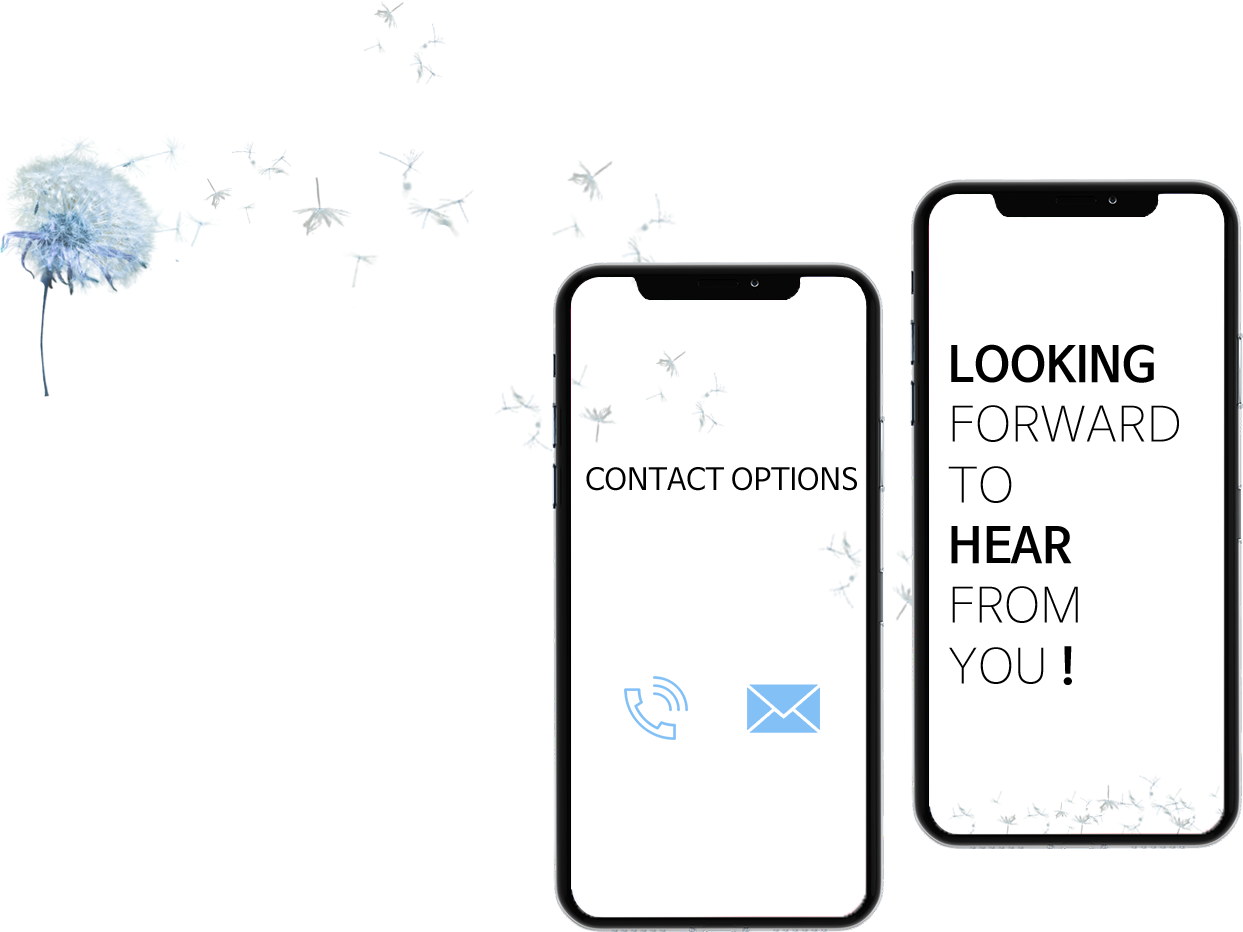
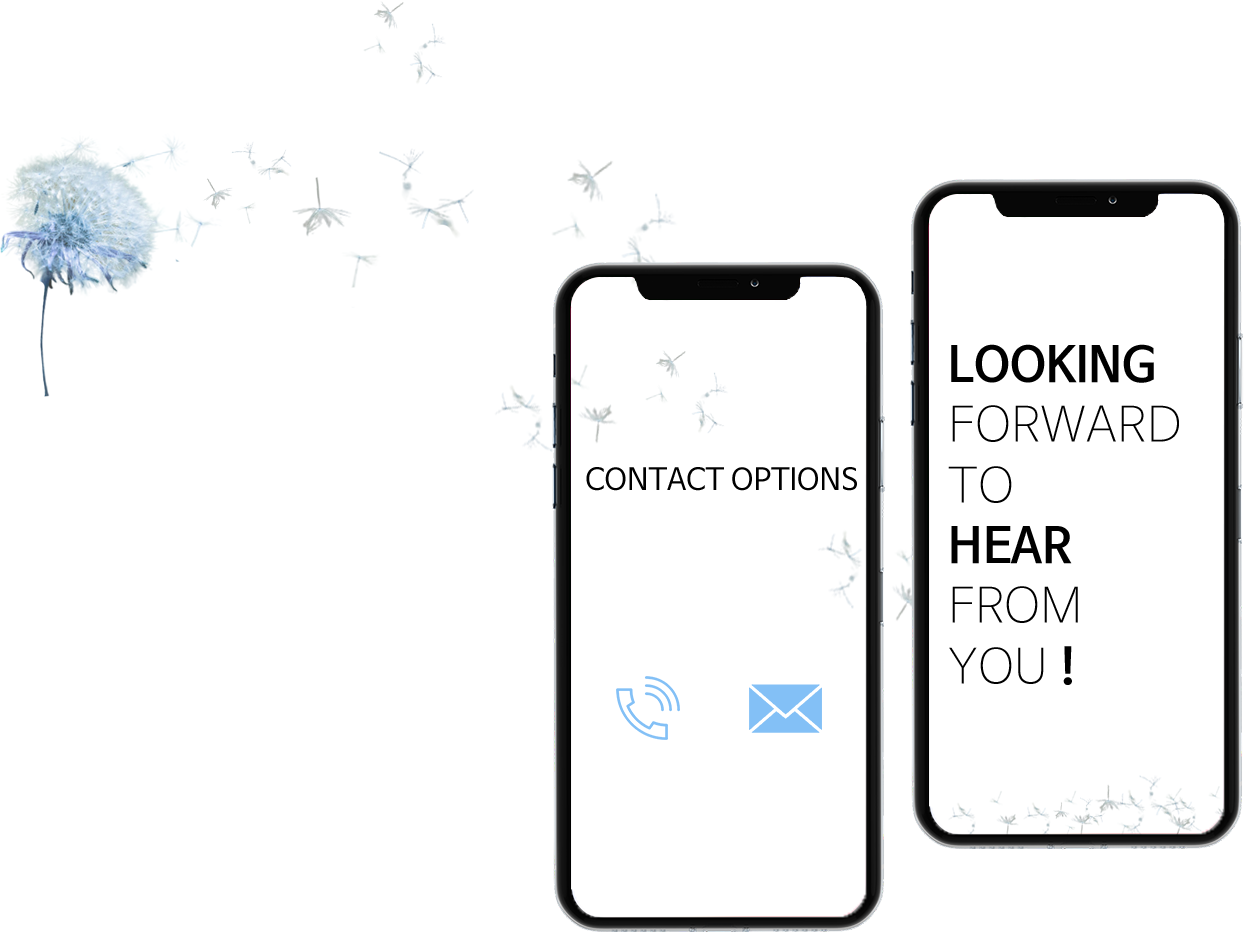
Add files via upload

diff --git a/index.html b/index.html
@@ -573,29 +573,33 @@
             
             <!--메인컨텐츠10-->
             <div class="mainCon10">
+               <div class="inner">
+                   
                 <div class="con10ImgWrap">
                     <h2>
                         MAKE<br>
                         IT<br>
                         HAPPEN
                     </h2>
-                    <img src="images/con10Bg.png" alt="컨텐츠배경이미지">
+                    <img src="images/con10Img_2.png" alt="컨텐츠배경이미지">
                 </div>
                     
+                <!--
                 <ul class="con10IconWrap">
                     <li>
                         <p class="con10Txt01">010.9206.1613</p>
                         <a href="#">
-                            <img src="images/con10Icon01.png" alt="컨텐츠배경이미지">
+                            <img src="images/plusWBtn.png">
                         </a>
                     </li>
                     <li>
                         <p class="con10Txt02">u14119294@gmail.com</p>
                         <a href="https://accounts.google.com/"  target="_blank">
-                            <img src="images/con10Icon02.png" alt="컨텐츠배경이미지">
+                            <img src="images/plusWBtn.png">
                         </a>
                     </li>
                 </ul>
+                -->
 
                 <!--contact-->
                 <div class="gnb cf">
@@ -603,6 +607,7 @@
                     <img src="images/plusBtn.png" alt="플러스버튼">
                 </div>
                 <!--contact-->
+                </div>
             </div>
             <!--메인컨텐츠10-->
 

diff --git a/css/main.css b/css/main.css
@@ -108,7 +108,7 @@
     position:relative;
 }
 .mainCon01 li a{
-    margin:400px 0;
+    padding:400px 0;
     display:block;
 }
 .mainCon01 li a::after{
@@ -282,7 +282,7 @@
 .con02RightWrap{
     position:absolute;
     right:0;
-    margin-right:10%;
+    margin-right:18%;
     bottom:0;
     font-size:23px;
 }
@@ -604,15 +604,17 @@
 .con10ImgWrap{
     position:relative;
 }
-.mainCon10 img{}
+
 
 .con10IconWrap{
     position:absolute;
     bottom:0;
-    margin-bottom:260px;
-    left:40%;
-    margin-left:-10px;
+    margin-bottom:290px;
+    right:0;
+    margin-right:740px;
 }
+
+
 .con10IconWrap li{
     float:left;
     margin-right:80px;
@@ -620,6 +622,10 @@
 .con10IconWrap li:last-child{
     margin-right:0;
 }
+.con10IconWrap li a{
+    display:block;
+}
+
 
 .con10Txt01{}
 .con10IconWrap li p{
